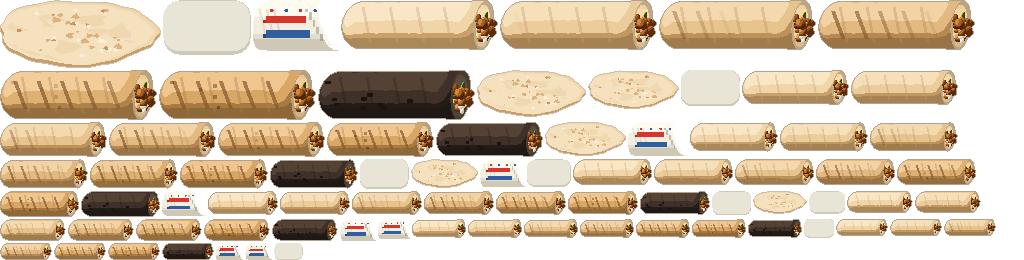
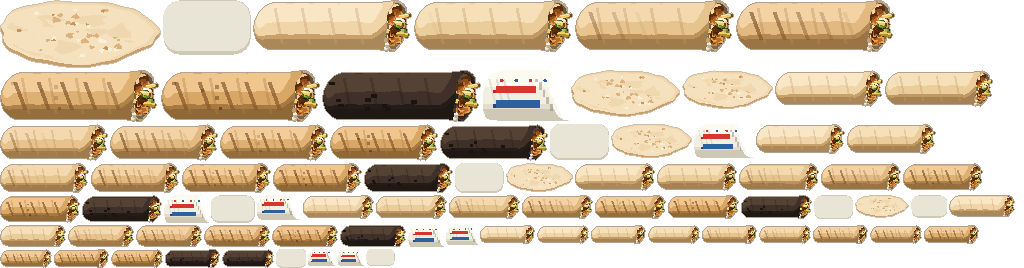
Sarılı dürümün açık ucu yeniden: talaş et, patates, turşu, sos, gölgeli iç
Et topakları yerine uçtan kabarık taşan döner talaşları; dışarı uzanan üç
patates çubuğu; yüzü kameraya dönük iki turşu dilimi; üstte beyaz sos ve
dudaktan kısa bir damla; tüpün içi gölgeli (açıklığın derinliği okunur);
lavaş ağzı ince, dalgalı, hafif açılmış.

diff --git a/blender/models/durum_hd.py b/blender/models/durum_hd.py
@@ -196,42 +196,123 @@ R_DURUM = 6.3
 X_UC = 18.6        # acik sag ucun x'i
 
 
+def _talas(ad, x, y, z, boy, en, kal, rot, kivrim, tohum, M, Mk):
+    """Doner et talasi (dolgu_hd.talas ile ayni): ince, kivrik, kenari duzensiz
+    yaprak; yan yuzleri (kizarmis kenar) koyu."""
+    bm = bmesh.new()
+    nu, nv = 6, 4
+    g = []
+    for i_ in range(nu):
+        u = i_ / (nu - 1.0) * 2 - 1
+        sira = []
+        for j_ in range(nv):
+            v = j_ / (nv - 1.0) * 2 - 1
+            kenar = i_ in (0, nu - 1) or j_ in (0, nv - 1)
+            sk = 1.0 - (0.14 * hash1(tohum * 3.1 + i_ * 7.7 + j_ * 1.3) if kenar else 0.0)
+            gx = u * boy / 2.0 * sk
+            gy = v * en / 2.0 * sk * (1.0 - 0.2 * u * u)
+            gz = kivrim * u * u + 0.2 * math.sin(u * 3.0 + tohum) * math.cos(v * 1.7 + tohum)
+            sira.append(bm.verts.new((gx, gy, gz)))
+        g.append(sira)
+    for i_ in range(nu - 1):
+        for j_ in range(nv - 1):
+            bm.faces.new((g[i_][j_], g[i_ + 1][j_], g[i_ + 1][j_ + 1], g[i_][j_ + 1]))
+    bmesh.ops.solidify(bm, geom=bm.faces[:], thickness=kal)
+    bmesh.ops.recalc_face_normals(bm, faces=bm.faces[:])
+    ob = I.mesh_ob(ad, bm, M, smooth=True)
+    ob.data.materials.append(Mk)
+    for pol in ob.data.polygons:
+        if abs(pol.normal.z) < 0.45:
+            pol.material_index = 1
+    ob.rotation_euler = rot
+    ob.location = (x, y, z)
+    return ob
+
+
+def _uc_nokta(t, r, x):
+    """Tupun kesitinde t acisi (0: on, pi/2: ust), r yaricapi, x konumu."""
+    return (x, -r * math.cos(t), r * math.sin(t))
+
+
 def _dolgu_ucu(k):
-    """Acik uctan gorunen / tasan dolgu: et lopcalari, iki patates, tursu, sos.
-    Tupun ekseni (y=0, z=0) boyunca, ic yaricap ~4.4 icinde."""
-    Me = cel("UcEt", ["#5a2c0c", "#8c4c1c", "#b86c2c", "#e0a050"], [0, .28, .52, .82], noise=0.2, noise_scale=6)
-    Me2 = cel("UcEt2", ["#4a240a", "#7a4014", "#a45c20", "#cf8a3a"], [0, .28, .52, .82], noise=0.2, noise_scale=7)
-    for q in range(14):
-        a = hash1(q * 3.3) * math.tau
-        rr = 3.9 * math.sqrt(hash1(q * 7.7))
-        y, z = math.cos(a) * rr, math.sin(a) * rr
-        x = X_UC - 1.2 + hash1(q * 5.1) * 2.6
-        e = I.elipsoid("et%d" % q, x, 0, 1.5 + 0.7 * hash1(q), 1.0 + 0.4 * hash1(q * 2), 1.3, 0, Me if q % 3 else Me2,
-                       seg=10, ring=7)
-        e.location = (x, y, z)
-        e.rotation_euler = (hash1(q * 1.1) * 3.0, hash1(q * 2.3) * 3.0, hash1(q * 3.7) * 3.0)
-    Mp = cel("UcPat", ["#8a6218", "#b88a28", "#ecce6c", "#fbeab0"], [0, .3, .5, .8])
-    for q, (y, z, uz, aci) in enumerate(((-1.6, 1.2, 6.0, 0.18), (1.4, -1.6, 5.2, -0.22))):
+    """Acik uctan tasan dolgu (4. tur, kullanici: "acik uc gorseli iyi olmamis").
+    Et topaklari yerine gercek doner talaslari uctan disari kabarik bir yigin
+    olarak tasar; uc patates cubugu farkli acilarla disari uzanir; yuzu gorunen
+    bir tursu dilimi; ustte beyaz sos, dudaktan disari suzulen bir damla."""
+    Me = cel("UcEt", ["#5a2c0c", "#8c4c1c", "#b86c2c", "#e2a452"], [0, .26, .5, .8], noise=0.18, noise_scale=5)
+    Me2 = cel("UcEt2", ["#4a240a", "#7a4014", "#a45c20", "#cf8a3a"], [0, .26, .5, .8], noise=0.2, noise_scale=7)
+    Mk = cel("UcEtKenar", ["#2e1606", "#4a240a", "#6a3410", "#8a4a18"], [0, .3, .5, .8])
+    # et: acikligi dolduran, ortada daha cok tasan talaslar (yuzleri disa/kameraya)
+    for q in range(15):
+        a = hash1(q * 3.3 + 0.5) * math.tau
+        rr = 4.4 * math.sqrt(0.08 + 0.92 * hash1(q * 7.7 + 0.2))
+        y, z = -rr * math.cos(a), rr * math.sin(a)
+        tasma = 1.9 * (1.0 - rr / 4.8) + 0.5 * hash1(q * 5.1)
+        x = X_UC - 0.6 + tasma
+        rot = (math.radians((hash1(q * 1.1) - 0.5) * 70),
+               math.radians(90 + (hash1(q * 2.3) - 0.5) * 60),
+               math.radians(-25 + (hash1(q * 3.7) - 0.5) * 60))
+        _talas("et%d" % q, x, y, z, 3.2 + 1.2 * hash1(q * 4.4), 2.2 + 0.8 * hash1(q * 6.1), 0.4, rot,
+               0.4 + 0.6 * hash1(q * 8.8), q * 1.3, Me if hash1(q * 2.9) > 0.35 else Me2, Mk)
+    # patates: uc cubuk, disari uzanan
+    Mp = cel("UcPat", ["#8a6218", "#b88a28", "#ecce6c", "#fbeab0"], [0, .3, .52, .8])
+    Mpu = cel("UcPatUc", ["#6a4810", "#9a7020", "#c89a3a", "#e0bc5a"], [0, .3, .52, .8])
+    for q, (t, rr, uz, yaw, pitch) in enumerate(((1.9, 2.4, 6.6, -14, -12), (-0.9, 2.2, 6.0, 12, 16),
+                                                 (0.5, 3.3, 5.4, -20, 4))):
+        _, y, z = _uc_nokta(t, rr, 0)
         bm = bmesh.new()
         bmesh.ops.create_cube(bm, size=1.0)
         for v in bm.verts:
             v.co.x *= uz
-            v.co.y *= 1.1
-            v.co.z *= 1.1
-        bmesh.ops.bevel(bm, geom=bm.edges[:], offset=0.22, segments=2, profile=0.5, affect="EDGES")
+            v.co.y *= 1.05
+            v.co.z *= 1.05
+        bmesh.ops.bevel(bm, geom=bm.edges[:], offset=0.2, segments=2, profile=0.5, affect="EDGES")
         ob = I.mesh_ob("pat%d" % q, bm, Mp)
-        ob.location = (X_UC - uz / 2 + 2.3, y, z)
-        ob.rotation_euler = (0.0, aci, aci * 0.6)
-    Mt = cel("UcTursu", ["#2e4212", "#44601c", "#6e9128", "#a8c656"], [0, .3, .5, .8])
-    t = I.elipsoid("tursu", X_UC + 0.4, 0, 0.35, 1.3, 1.25, 0, Mt, seg=14, ring=8)
-    t.location = (X_UC + 0.5, 0.6, 2.2)
-    t.rotation_euler = (0.3, 0.2, 0.0)
-    # beyaz sos: uctan hafif tasan birikinti + damla
-    Ms = cel("UcSos", ["#c4bca6", "#e2dccb", "#f3efe4", "#ffffff"], [0, .3, .5, .8])
-    b = I.elipsoid("sos", 0, 0, 1.0, 0.9, 1.6, 0, Ms, seg=12, ring=8)
-    b.location = (X_UC + 0.7, -0.4, -2.9)
-    d = I.elipsoid("damla", 0, 0, 0.6, 0.9, 0.6, 0, Ms, seg=10, ring=6)
-    d.location = (X_UC + 1.0, -1.2, -4.0)
+        ob.data.materials.append(Mpu)
+        for pol in ob.data.polygons:
+            if abs(pol.normal.x) > 0.8:
+                pol.material_index = 1
+        ob.location = (X_UC + uz / 2.0 - 2.4 + 0.5 * q, y, z)
+        ob.rotation_euler = (0.0, math.radians(pitch), math.radians(yaw))
+    # tursu dilimi: yuzu disa ve kameraya donuk
+    Mtk = cel("UcTursuKabuk", ["#1a2808", "#2e4212", "#44601c", "#5a7a28"], [0, .3, .5, .8])
+    Mti = cel("UcTursuIc", ["#6e7c28", "#8e9c3c", "#aab458", "#c4cc78"], [0, .3, .5, .8])
+    for q, (t, rr, tas) in enumerate(((0.35, 2.9, 2.1), (-1.6, 1.8, 2.0))):
+        _, y, z = _uc_nokta(t, rr, 0)
+        L.silindir("tursu%d" % q, 1.35, X_UC + tas, y, z, 0.32, Mtk, seg=18, eksen="X")
+        ob = L.silindir("tursu_ic%d" % q, 1.05, X_UC + tas + 0.18, y, z, 0.05, Mti, seg=18, eksen="X")
+        par = bpy.data.objects["tursu%d" % q]
+        for o_ in (par, ob):
+            o_.rotation_euler = (0.0, math.radians(70), math.radians(-35))
+    # beyaz sos: yiginin ustunde bir kasik + dudaktan disari suzulen damla
+    Ms = cel("UcSos", ["#b8b09a", "#ddd6c4", "#f1ece0", "#ffffff"], [0, .3, .5, .82])
+    b = I.elipsoid("sos", 0, 0, 1.6, 0.9, 1.3, 0, Ms, seg=16, ring=10)
+    b.location = (X_UC + 1.6, -1.0, 1.4)
+    b.rotation_euler = (0.2, 0.3, 0.0)
+    r_uc = R_DURUM * 1.08
+    nok = []
+    for q in range(5):
+        u = q / 4.0
+        t = -0.5 - u * 0.22
+        nok.append(_uc_nokta(t, r_uc + 0.3, X_UC + 0.35 - u * 0.5))
+    cu = bpy.data.curves.new("damla", "CURVE")
+    cu.dimensions = "3D"
+    cu.bevel_depth = 1.0
+    cu.bevel_resolution = 3
+    cu.use_fill_caps = True
+    sp = cu.splines.new("BEZIER")
+    sp.bezier_points.add(len(nok) - 1)
+    for q, co in enumerate(nok):
+        bp = sp.bezier_points[q]
+        bp.co = co
+        bp.handle_left_type = bp.handle_right_type = "AUTO"
+        bp.radius = (0.55, 0.48, 0.45, 0.5, 0.6)[q]
+    ob = bpy.data.objects.new("damla", cu)
+    bpy.context.collection.objects.link(ob)
+    L.meshle(ob, Ms)
+    x_, y_, z_ = nok[-1]
+    e = I.elipsoid("damla_uc", 0, 0, 0.65, 0.75, 0.65, 0, Ms, seg=12, ring=8)
+    e.location = (x_, y_ - 0.1, z_ - 0.2)
 
 
 def durum_govde(kiz):
@@ -252,6 +333,8 @@ def durum_govde(kiz):
         Mg = cel("Durum", [hexmul(shade, .85), shade, base, lite], [0, .3, .5, .82], noise=0.08, noise_scale=10)
         ic_renk = mix("#f0d5a8", "#e2b882", k * 0.5) if kiz is not None else "#5a4a3c"
         Mi = cel("DurumIc", [hexmul(ic_renk, .8), hexmul(ic_renk, .9), ic_renk, hexmul(ic_renk, 1.04)], [0, .3, .5, .82])
+        # tupun ici: golgede (acikligin derinligi okunsun)
+        Mig = cel("DurumIcGolge", [hexmul(ic_renk, .42), hexmul(ic_renk, .5), hexmul(ic_renk, .6), hexmul(ic_renk, .7)], [0, .3, .5, .82])
         R = R_DURUM
         T_ = 0.7
         bm = bmesh.new()
@@ -263,15 +346,21 @@ def durum_govde(kiz):
         for x in xs:
             u = max(0.0, -x - 15.0) / 5.0
             r = R * math.sqrt(max(0.0, 1 - u * u))
-            # uca yakin hafif genisleme (lavas agzi acilir)
-            r *= 1.0 + 0.05 * max(0.0, (x - (X_UC - 3.0)) / 3.0)
+            # uca yakin genisleme (lavas agzi acilir)
+            r *= 1.0 + 0.08 * max(0.0, (x - (X_UC - 3.5)) / 3.5) ** 1.5
             dis.append([bm.verts.new((x, -r * math.cos(2 * math.pi * j / seg), r * math.sin(2 * math.pi * j / seg))) for j in range(seg)])
         for a_, b_ in zip(dis, dis[1:]):
             for j in range(seg):
                 bm.faces.new((a_[j], a_[(j + 1) % seg], b_[(j + 1) % seg], b_[j]))
-        # agiz kenari (kalinlik) + ic yuzey (kisa)
-        r_uc = R * 1.05
-        ic_on = [bm.verts.new((X_UC, -(r_uc - T_) * math.cos(2 * math.pi * j / seg), (r_uc - T_) * math.sin(2 * math.pi * j / seg))) for j in range(seg)]
+        # agiz kenari (ince, dalgali) + ic yuzey (golgeli, kisa)
+        r_uc = R * 1.08
+        T_ = 0.45
+        son_ = dis[-1]
+        for j in range(seg):
+            t = 2 * math.pi * j / seg
+            son_[j].co.x = X_UC + 0.35 * math.sin(5 * t + 1.0) + 0.2 * math.sin(3 * t)
+        ic_on = [bm.verts.new((X_UC + 0.35 * math.sin(5 * (2 * math.pi * j / seg) + 1.0) + 0.2 * math.sin(3 * (2 * math.pi * j / seg)) - 0.05,
+                               -(r_uc - T_) * math.cos(2 * math.pi * j / seg), (r_uc - T_) * math.sin(2 * math.pi * j / seg))) for j in range(seg)]
         ic_arka = [bm.verts.new((X_UC - 5.0, -(R - T_) * math.cos(2 * math.pi * j / seg), (R - T_) * math.sin(2 * math.pi * j / seg))) for j in range(seg)]
         son = dis[-1]
         kenar_yuz, ic_yuz = [], []
@@ -279,24 +368,27 @@ def durum_govde(kiz):
             kenar_yuz.append(bm.faces.new((son[j], son[(j + 1) % seg], ic_on[(j + 1) % seg], ic_on[j])))
             ic_yuz.append(bm.faces.new((ic_on[j], ic_on[(j + 1) % seg], ic_arka[(j + 1) % seg], ic_arka[j])))
         ic_yuz.append(bm.faces.new(list(reversed(ic_arka))))
-        for f in ic_yuz + kenar_yuz:
+        for f in kenar_yuz:
             f.material_index = 1
+        for f in ic_yuz:
+            f.material_index = 2
         bmesh.ops.recalc_face_normals(bm, faces=bm.faces[:])
         ob = I.mesh_ob("govde", bm, Mg)
         ob.data.materials.append(Mi)
+        ob.data.materials.append(Mig)
         # sarmal ic kat: uctan gorunen spiral (dis kattan ice dogru bir tur)
         bm2 = bmesh.new()
         n = 40
         on_, arka_ = [], []
         for q in range(n + 1):
-            a = 0.6 + q / float(n) * math.tau * 1.05
-            rr = r_uc - T_ - 0.25 - (q / float(n)) * 1.5
+            a = 0.9 + q / float(n) * math.tau * 0.8
+            rr = r_uc - T_ - 0.2 - (q / float(n)) * 0.9
             yy, zz = -rr * math.cos(a), rr * math.sin(a)
-            on_.append(bm2.verts.new((X_UC - 0.25, yy, zz)))
+            on_.append(bm2.verts.new((X_UC - 0.45, yy, zz)))
             arka_.append(bm2.verts.new((X_UC - 4.0, yy, zz)))
         for q in range(n):
             bm2.faces.new((on_[q], on_[q + 1], arka_[q + 1], arka_[q]))
-        bmesh.ops.solidify(bm2, geom=bm2.faces[:], thickness=0.45)
+        bmesh.ops.solidify(bm2, geom=bm2.faces[:], thickness=0.32)
         bmesh.ops.recalc_face_normals(bm2, faces=bm2.faces[:])
         I.mesh_ob("sarmal", bm2, Mi)
         _dolgu_ucu(k)

diff --git a/BIRLESIK.md b/BIRLESIK.md
@@ -88,6 +88,7 @@ Kullanıcı geri bildirimiyle gelen düzenlemeler (2026-09-23):
 | Lavaş tahtada durmuyor, havada gibi | Tek üründe (1.8) lavaş tahtanın ön kenarına taşıyordu ve eski gölge elipsi aşağı düşüp kenardan sarkıyordu: çizim 3.5 px yukarı (hedef noktası aynı), HD'de lavaşa yapışık temas gölgesi, lavaş alttan inceltildi (2.1 → 1.35 px) |
 | Sarılı dürümün ucu kapalı | Kamera hafif sağdan (x += y·0.42, `durum_hd.x_egim`): sağ uç açık, dış kat + sarmal iç kat + uçtan taşan et/patates/turşu/sos; sol uç kıvrık kapalı; kağıt aynı açıyla; uçtaki piksel işaretleri HD'de yok; gölge gövdeye yapışık |
 | Lavaş pizza hamuruna benziyor | Kabarık kenar halkası ve kusursuz elips kaldırıldı: düzensiz kenarlı ince yufka, yumuşak dalgalı yüzey, soluk kızarma benekleri + un tozu (dolgu yeniden render) |
+| Açık uç görseli iyi değil | Uç baştan: gölgeli iç yüzey (derinlik), ince dalgalı açılmış lavaş ağzı, uçtan kabarık taşan döner talaşları, üç patates çubuğu, yüzü görünen iki turşu dilimi, beyaz sos + kısa damla |
 
 Önizleme: `python blender/tezgah2_onizleme.py` (parçaları oyundaki yerlerine dizer).
 
